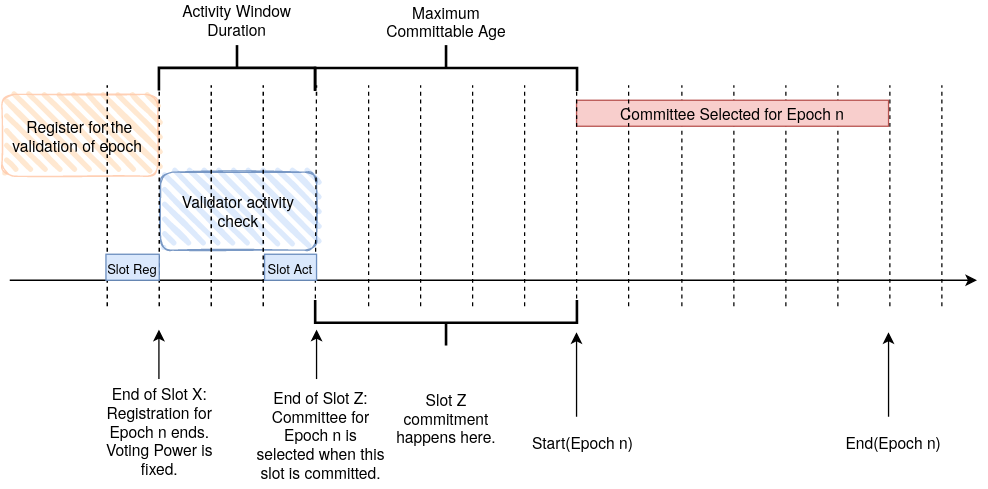
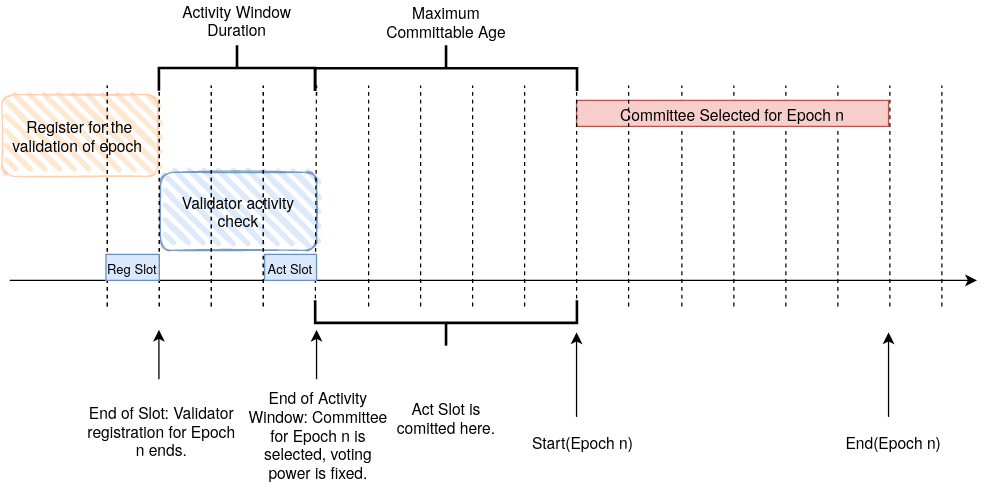
Update Timing figure

diff --git a/tips/TIP-0040/tip-0040.md b/tips/TIP-0040/tip-0040.md
@@ -71,20 +71,23 @@ _This figures details the timing around committee selection in epochs._
 To select a committee for an epoch with epoch index `n`, whose first slot index is denoted by `Epoch Start Slot(n)`, the following steps must be taken.
 
 - Let `Registration Slot(n)` be the registration slot with index `Epoch Start Slot(n) - Maximum Committable Age - Activity Window Duration - 1`.
-- Let `Activity Window Slot` be the last slot of the activity window with index `Epoch Start Slot(n) - Maximum Committable Age - 1`.
+- Let `Activity Window Slot(n)` be the last slot of the activity window with index `Epoch Start Slot(n) - Maximum Committable Age - 1`.
 - The set of _registered validators_ are all account outputs satisfying all of the following conditions:
   - The account has a _Staking Feature_ at the end of the `Registration Slot(n)`.
   - The account's Staking Feature's `end_epoch` is greater or equal to `n`.
-- For any validator `i` in the set of _registered validators_ the voting power is equal to `Stake_i + DelegatedStake_i` at the end of the slot with index `Registration Slot(n)`, where:
-  - `Stake_i` is the `staked_amount` of IOTA tokens of the validator's _Staking Feature_.
-  - `DelegatedStake_i` is the sum of all _Delegation Output's_ `Amount` field where the value of the `validator` field is equal to `i`.
 - For any validator `i` in the set of _registered validators_ the activity is determined as a boolean value. The validator is active if the following condition holds, otherwise it is inactive:
-  - The account with `Account ID` issues at least one block whose `Account ID` field is equal to that of the account, and the block's slot index `block_slot_index`, corresponding to its `Issuing Time` field, satisfies all of the following conditions:
-    - `block_slot_index > Registration Slot(n)`.
-    - `block_slot_index <= Activity Window Slot`.
+  - The account with `Account ID` issues at least one block whose `Account ID` field is equal to that of the account, and the block's slot index `Block Slot Index`, corresponding to its `Issuing Time` field, satisfies all of the following conditions:
+    - `Block Slot Index > Registration Slot(n)`.
+    - `Block Slot Index <= Activity Window Slot(n)`.
+- For any validator `i` in the set of _registered validators_ the voting power is equal to `Stake_i + DelegatedStake_i`, where:
+  - `Stake_i` is the `Staked Amount` of IOTA tokens of the validator's _Staking Feature_  at the end of the slot with index `Registration Slot(n)`.
+  - `DelegatedStake_i` is the sum of all _Delegation Output's_ `Amount` field where the value of the `validator` field is equal to `i` at the end of the slot with index `Activity Window Slot(n)`.
 - The set of _registered validators_ who are active constitute the set of _eligible validators_, which is sorted by voting power in descending order. The first `Committee Size` entries in the _eligible validators_ set is the selected committee.
 
+Note: The order of these operations is deliberate. Filtering out all inactive registered validators before computing the delegated stake for each validator pool avoids unnecessary computations.
+
 **Open Questions**
+
 - How exactly are we committing to the committee and its voting power?
 - Do we have to keep track of the activity data in the slot committment? In other words, does this need to be specified on the protocol level or is this an implementation detail for the node software?
 
@@ -380,7 +383,7 @@ Each Delegation output gets assigned a unique identifier `Delegation ID` upon cr
 
 #### Consumed Outputs
 
-Whenever a Delegation output is consumed in a transaction, it means that the output is transitioned into its next state. The current state is defined as the consumed Delegation output, while the next state is defined as the Delegation output with the same explicit `Delegation ID` on the output side. There are thus two types of transitions: delayed claiming transition and destruction transition.
+Whenever a Delegation output is consumed in a transaction, it means that the output is transitioned into its next state. From its initial state, a Delegation Output can either be destroyed or transitioned to a _Delayed Claiming_ state, from which it can then be destroyed. The current state is defined as the consumed Delegation output, while the next state is defined as the Delegation output with the same explicit `Delegation ID` on the output side. There are thus two types of transitions: delayed claiming transition and destruction transition.
 
 - Delayed Claiming Transition
   - Is identified by a zeroed out `Delegation ID` on the input side and a non-zeroed out `Delegation ID` on the output side.
